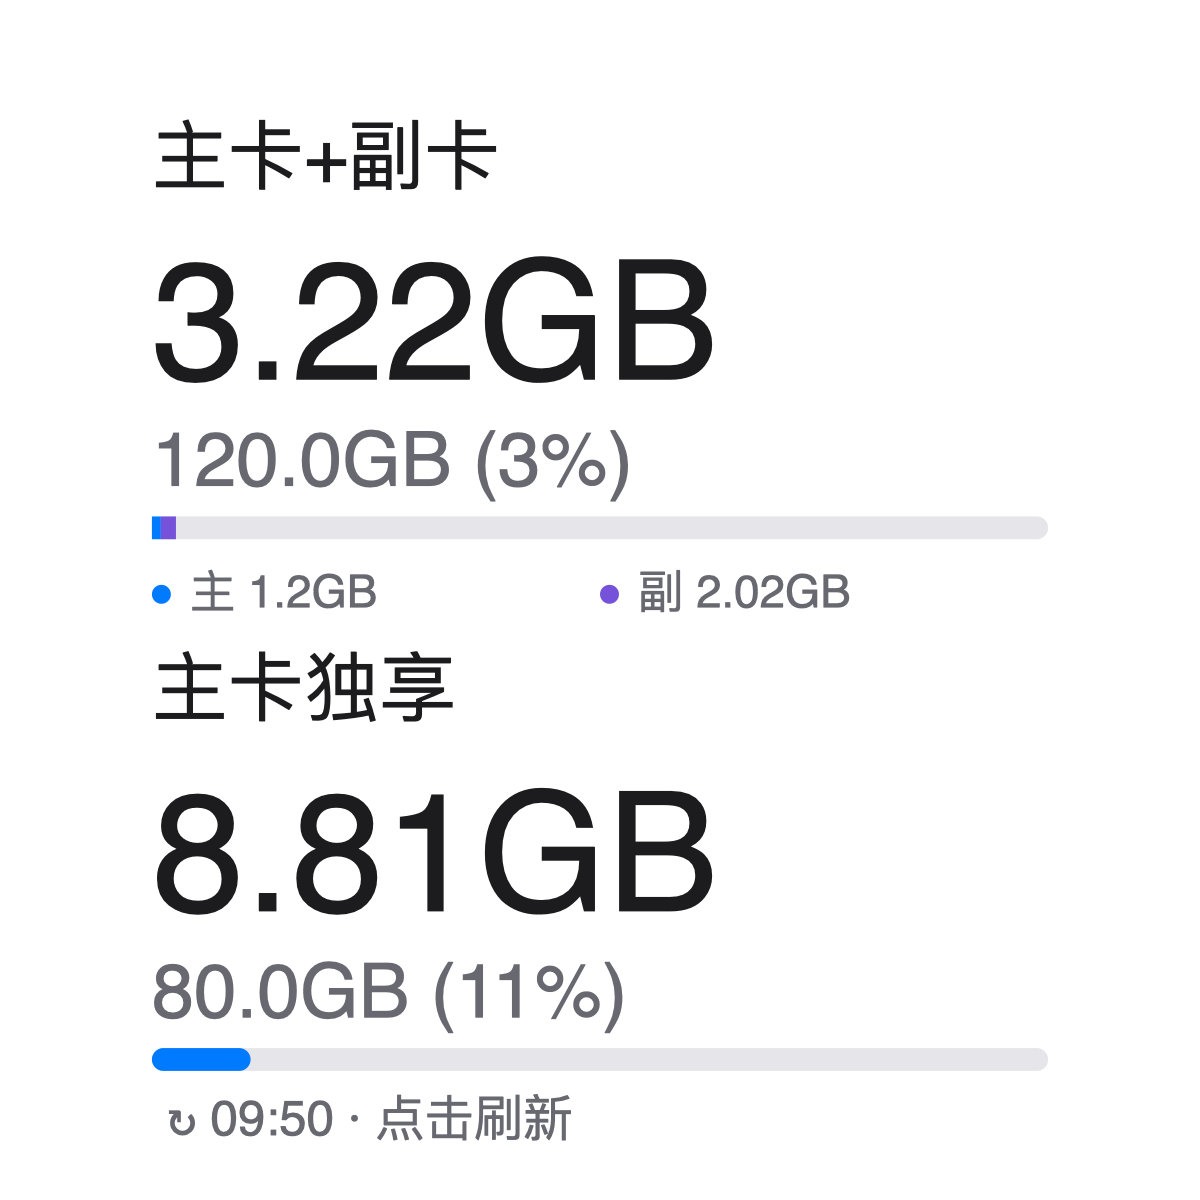
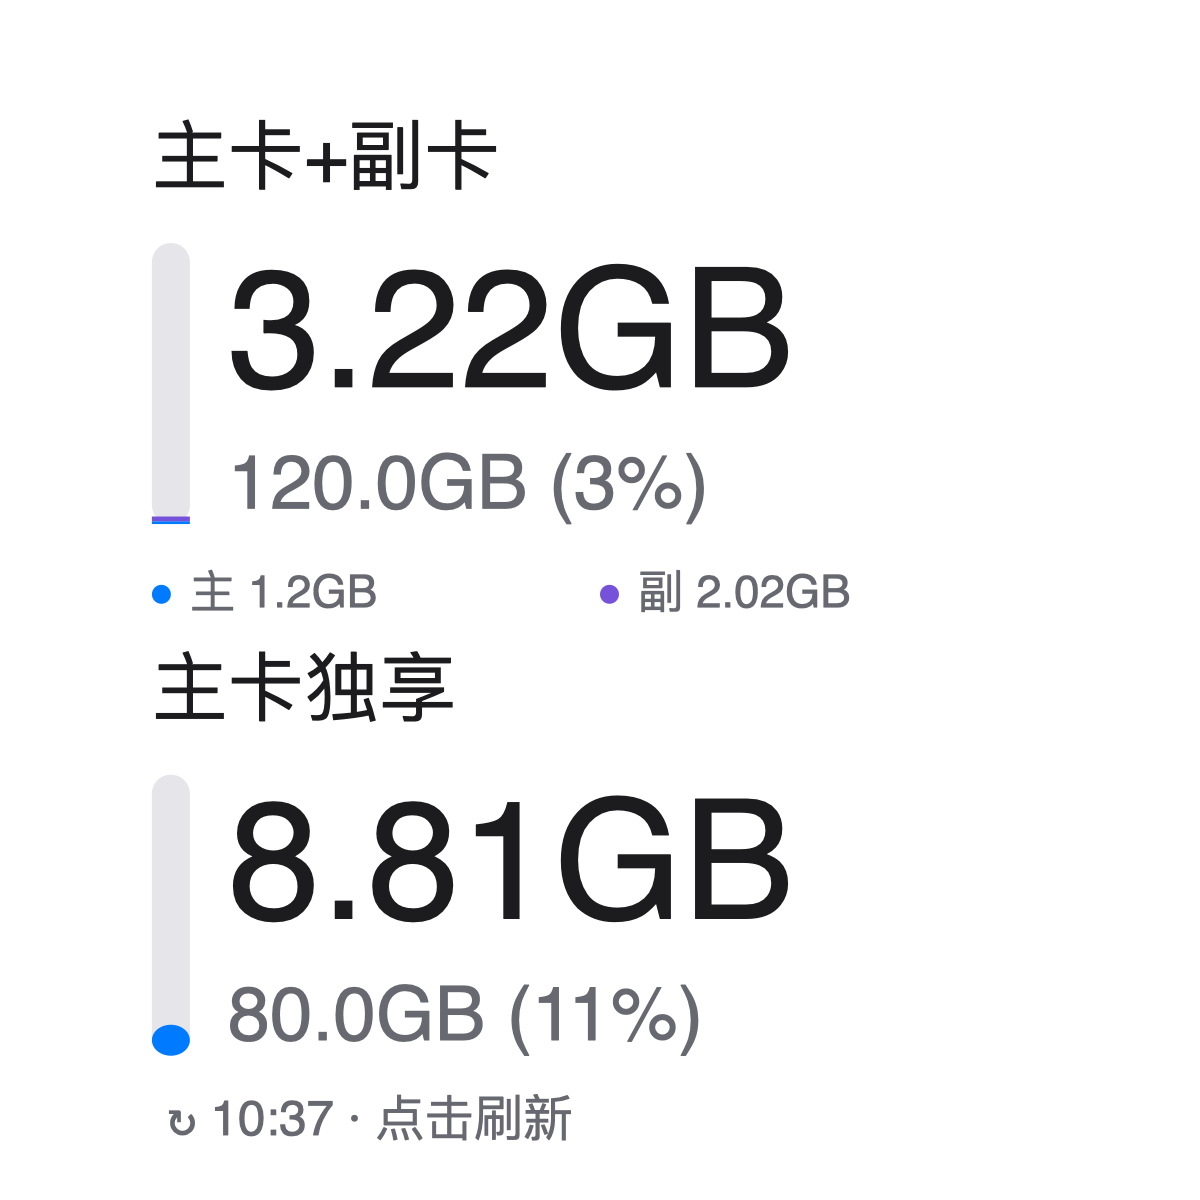
Unify widget quota indicators as left vertical progress bars

Changed region(s): [[0.1233, 0.185, 0.8942, 0.4625], [0.1233, 0.6475, 0.8942, 0.9558]]

diff --git a/scriptable/UnicomFlow.js b/scriptable/UnicomFlow.js
@@ -538,22 +538,23 @@ function drawMetric(ctx, metric, label, x, y, width, compact) {
   text(ctx, title, x, y, width, 14, compact ? 10 : 11, UF.text, false, false, true);
   const primary = formatMB(metric && metric.used);
   const base = compact ? 22 : 25;
-  const size = Math.min(base, width / Math.max(1, primary.length * 0.62));
-  text(ctx, primary, x, y + 14, width, 29, size, UF.text, 'number');
+  const textX = x + 10, textWidth = width - 10;
+  const size = Math.min(base, textWidth / Math.max(1, primary.length * 0.62));
+  text(ctx, primary, textX, y + 15, textWidth, 29, size, UF.text, 'number');
   let detail = '未返回明细';
   if (metric) detail = metric.detail || (metric.total == null ? '不限量' : `${formatMB(metric.total)} (${metric.total > 0 ? Math.round(metric.used / metric.total * 100) : '--'}%)`);
-  const detailSize = Math.min(compact ? 10 : 11, width / Math.max(1, detail.length * 0.7));
-  text(ctx, detail, x, y + 40, width, 13, detailSize, metric ? UF.muted : UF.warning, 'number');
-  const barY = y + 54, barH = 3;
-  roundedRect(ctx, x, barY, width, barH, 1.5, UF.track);
+  const detailSize = Math.min(compact ? 10 : 11, textWidth / Math.max(1, detail.length * 0.7));
+  text(ctx, detail, textX, y + 43, textWidth, 13, detailSize, metric ? UF.muted : UF.warning, 'number');
+  const barY = y + 18, barH = 37, barW = 5;
+  roundedRect(ctx, x, barY, barW, barH, 2.5, UF.track);
   if (metric && metric.composition) {
     const c = metric.composition;
-    // 彩条按套餐总量分别表示主副卡已用量，未用部分保留灰色。超额时按已用构成缩放至条宽。
+    // 彩条按套餐总量分别表示主副卡已用量，未用部分保留灰色。自底部向上增长，超额时按已用构成缩放至条高。
     if (c.complete && metric.used > 0 && metric.total > 0) {
-      const scale = width / Math.max(metric.total, c.main + c.vice);
-      const mainWidth = c.main * scale, viceWidth = c.vice * scale;
-      if (c.main > 0) { ctx.setFillColor(new Color(UF.blue)); ctx.fillRect(new Rect(x, barY, mainWidth, barH)); }
-      if (c.vice > 0) { ctx.setFillColor(new Color(UF.purple)); ctx.fillRect(new Rect(x + mainWidth, barY, viceWidth, barH)); }
+      const scale = barH / Math.max(metric.total, c.main + c.vice);
+      const mainHeight = c.main * scale, viceHeight = c.vice * scale;
+      if (c.main > 0) { ctx.setFillColor(new Color(UF.blue)); ctx.fillRect(new Rect(x, barY + barH - mainHeight, barW, mainHeight)); }
+      if (c.vice > 0) { ctx.setFillColor(new Color(UF.purple)); ctx.fillRect(new Rect(x, barY + barH - mainHeight - viceHeight, barW, viceHeight)); }
     }
     const half = width / 2;
     roundedRect(ctx, x, y + 63, 2.5, 2.5, 1.25, UF.blue);
@@ -562,7 +563,7 @@ function drawMetric(ctx, metric, label, x, y, width, compact) {
     text(ctx, `副 ${formatMB(c.vice)}`, x + half + 5, y + 60, half - 5, 10, compact ? 6 : 6.5, UF.muted);
   } else if (metric && metric.total > 0) {
     const ratio = Math.min(1, Math.max(0, metric.used / metric.total));
-    roundedRect(ctx, x, barY, width * ratio, barH, 1.5, UF.blue);
+    roundedRect(ctx, x, barY + barH * (1 - ratio), barW, barH * ratio, 2.5, UF.blue);
   }
 }
 

diff --git a/docs/unicom-flow/README.md b/docs/unicom-flow/README.md
@@ -36,7 +36,7 @@
 
 ## 显示规则
 
-“组件配置 → 数字字体”提供系统默认、系统等宽、Menlo、Helvetica Neue、Avenir Next 窄体五种选择，只作用于流量大数字、总量和百分比；默认使用系统常规字体，选择在黑白主题间共用。指定字体不可用时回退系统默认，不下载外部字体。主副卡说明使用系统常规字体，标题使用系统中等字重，小时刻度保留等宽字体。大数字表示已用，下方表示套餐总量和已用百分比，主卡独享等普通套餐的横条表示已用比例；共享池的整条长度代表套餐总量，蓝色段表示主卡已用、紫色段表示副卡已用，剩余灰色表示未用流量。例如共享总量 120 GB、主卡已用 1.2 GB、副卡已用 2.02 GB 时，两段合计只占整条约 2.68%。下方标明两张卡各自的共享用量，蓝色为主卡、紫色为副卡；成员缺失或合计不符时保留灰条并提示，不推算缺失用量。标题和数据采用更宽的安全留白；大小卡片底部均显示最后一次成功查询时间与“点击刷新”，保留圆角安全留白。缓存或未识别明细的提示仍保留在安全区域内。不同手机尺寸统一按设计高度缩放布局。整卡使用背景图填满组件，避免固定宽度内容图片产生边缘细线；小时标签、竖线、柱子共用每格中心点对齐。在“组件配置 → 组件主题”选择黑色或白色，默认黑色，不随系统自动变化。两种主题分别保存自定义颜色，切换后文字、刻度、背景和提示颜色一起变化；可在“颜色配置”中调整当前主题。原版本的颜色设置仅迁移到黑色主题，避免白色主题套用旧的黑底配置。不限量套餐不计算百分比；没有返回某一类明细时显示 `--`，不伪装成 0。
+“组件配置 → 数字字体”提供系统默认、系统等宽、Menlo、Helvetica Neue、Avenir Next 窄体五种选择，只作用于流量大数字、总量和百分比；默认使用系统常规字体，选择在黑白主题间共用。指定字体不可用时回退系统默认，不下载外部字体。主副卡说明使用系统常规字体，标题使用系统中等字重，小时刻度保留等宽字体。大数字表示已用，下方表示套餐总量和已用百分比，大小卡片统一使用数字左侧的竖进度条，从底部向上增长。主卡独享等普通套餐的竖条表示已用比例；共享池的整条高度代表套餐总量，底部蓝色段表示主卡已用、其上紫色段表示副卡已用，剩余灰色表示未用流量。例如共享总量 120 GB、主卡已用 1.2 GB、副卡已用 2.02 GB 时，两段合计只占整条约 2.68%。下方标明两张卡各自的共享用量，蓝色为主卡、紫色为副卡；成员缺失或合计不符时保留灰条并提示，不推算缺失用量。标题和数据采用更宽的安全留白；大小卡片底部均显示最后一次成功查询时间与“点击刷新”，保留圆角安全留白。缓存或未识别明细的提示仍保留在安全区域内。不同手机尺寸统一按设计高度缩放布局。整卡使用背景图填满组件，避免固定宽度内容图片产生边缘细线；小时标签、竖线、柱子共用每格中心点对齐。在“组件配置 → 组件主题”选择黑色或白色，默认黑色，不随系统自动变化。两种主题分别保存自定义颜色，切换后文字、刻度、背景和提示颜色一起变化；可在“颜色配置”中调整当前主题。原版本的颜色设置仅迁移到黑色主题，避免白色主题套用旧的黑底配置。不限量套餐不计算百分比；没有返回某一类明细时显示 `--`，不伪装成 0。
 
 脚本调用联通的套餐明细接口 `queryOcsPackageFlowLeftContentRevisedInJune`。其明细中的 `total/use/remain` 默认以 MB 计，明确带单位的数值按单位换算；不从首页汇总值推算通用／定向数据。
 
